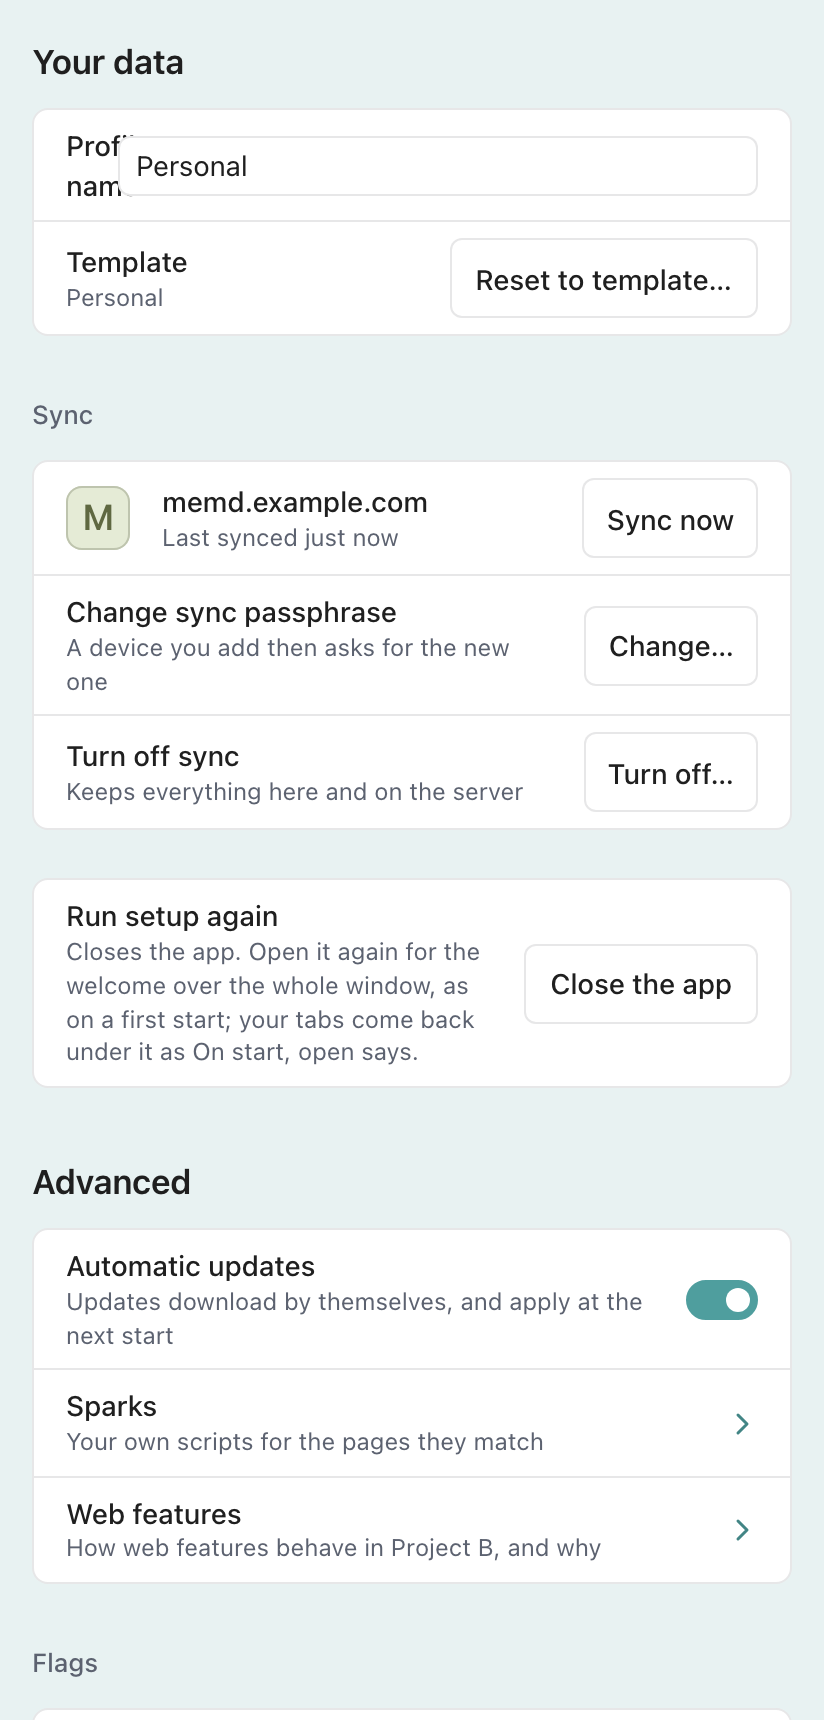
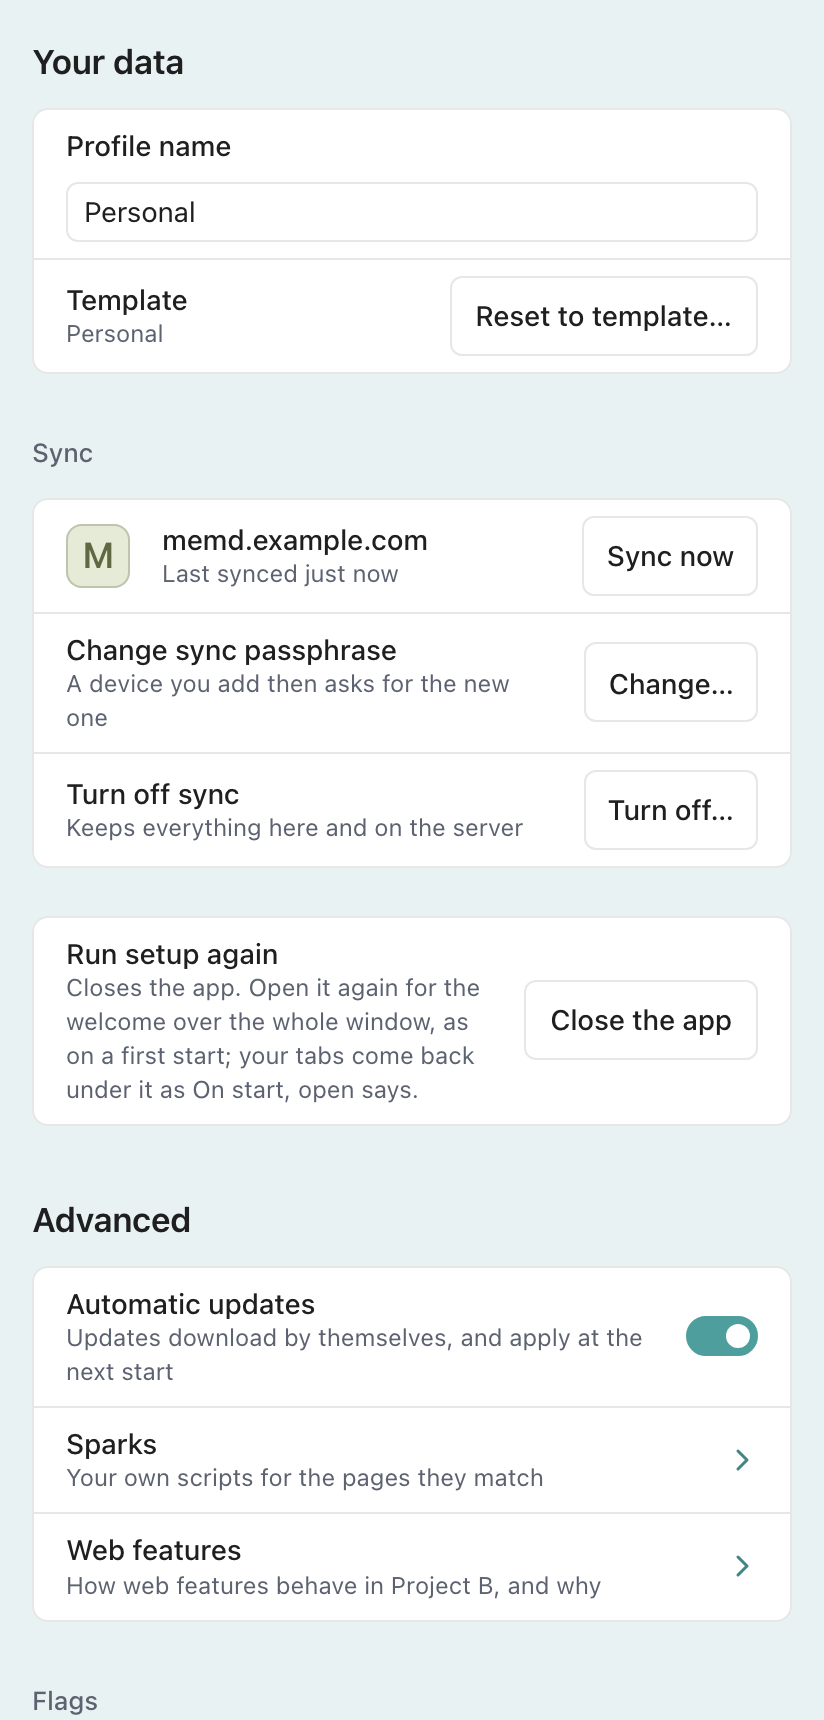
On a phone Settings' Profile name field goes under its label at the row's width, as a flag's value does, where beside it the label was squeezed to Prof nam; sync.md's phone pictures show it

diff --git a/shell/src/apps/settings/ProfileRows.vue b/shell/src/apps/settings/ProfileRows.vue
@@ -62,6 +62,12 @@ function reset() {
   flex: 0 1 320px;
 }
 
+/* On a phone the field goes under its label, the row's width, as a flag's value does: beside
+   it, the label was squeezed to a few letters. */
+.touch .name {
+  flex-basis: 100%;
+}
+
 .template {
   width: 100%;
 }
